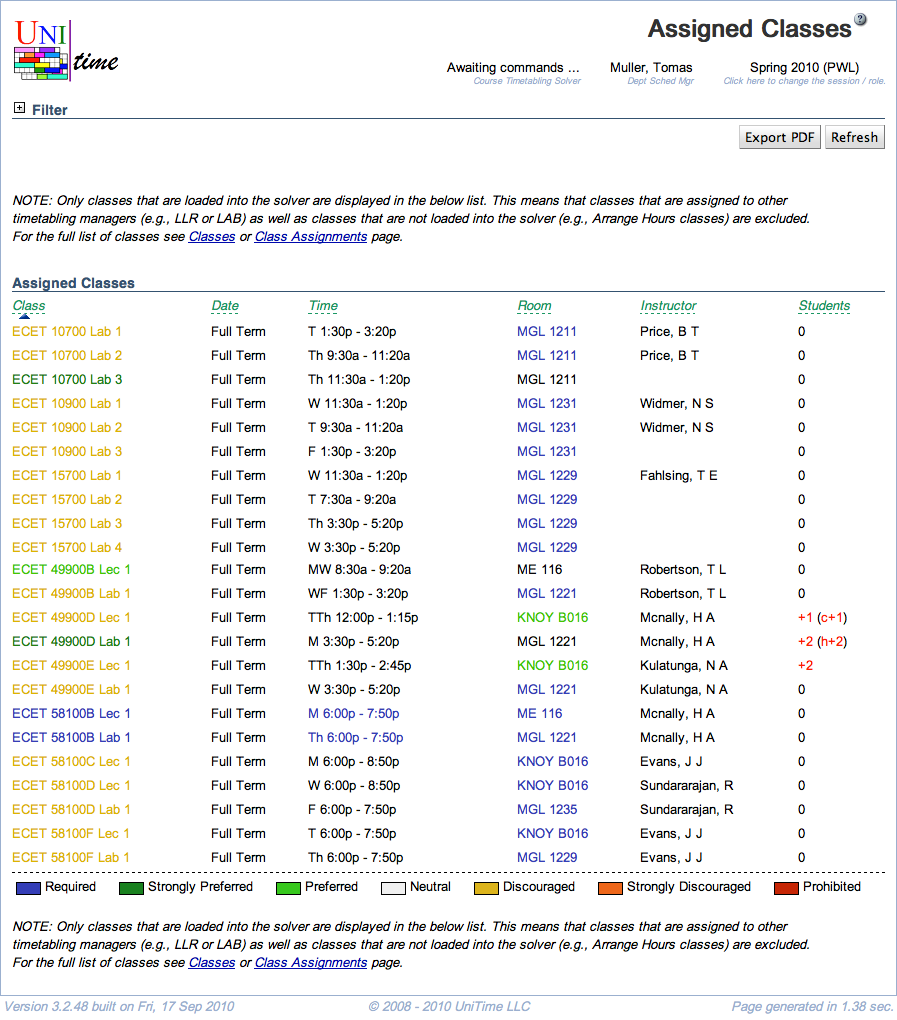
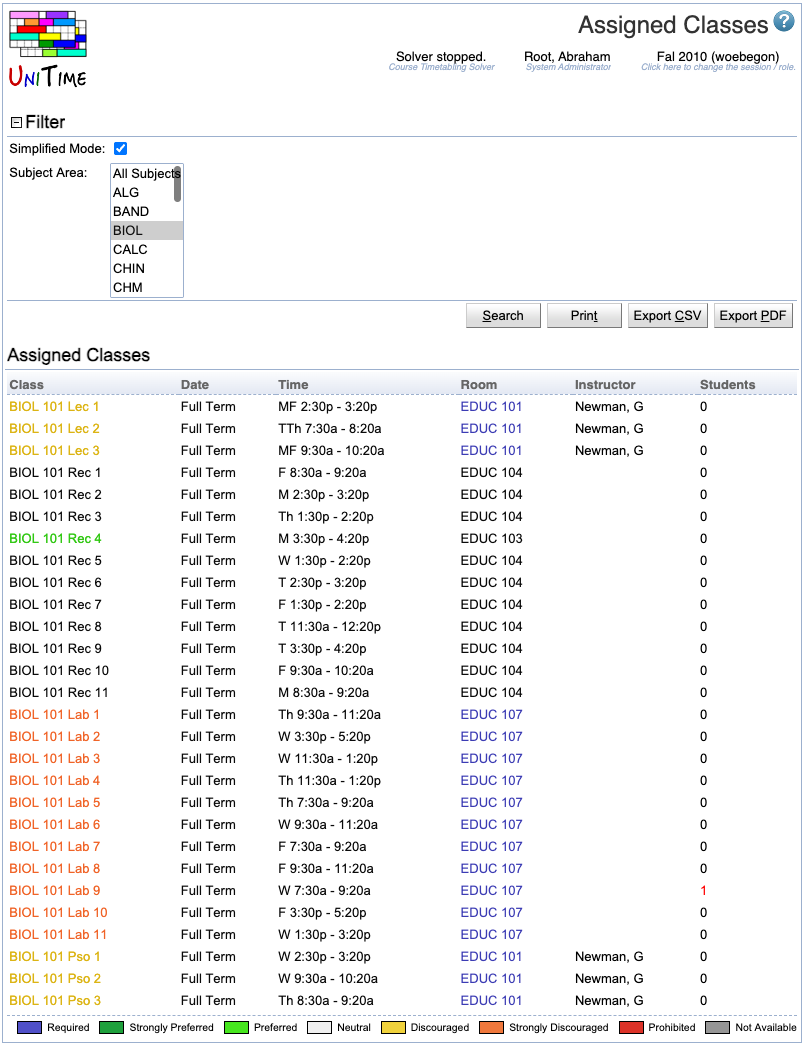
Assigned Classes, Not-assigned Classes
- new screenshots, new fields, text cleanup

Changed region(s): [[0.0, 0.0, 1.0, 1.0]]

diff --git a/assigned-classes.md b/assigned-classes.md
@@ -13,33 +13,28 @@ The Assigned Classes screen provides a view of time/room assignments for classes
 ## Filter
 
 * **Simplified mode**
-	* Choose how many parameters you want to display for each of the classes
-		* If checked, only the number of student conflicts is displayed in the right part of the table 
-		* If unchecked, many more columns are displayed - see below (Assigned Classes) for a list of displayed parameters 
-	* In most cases, you will want to use the simplified mode
+    * Choose how many parameters you want to display for each of the classes
+        * If checked, only the number of student conflicts is displayed in the right part of the table 
+        * If unchecked, many more columns are displayed
+    * In most cases, you will want to use the simplified mode
 
 * **Subject Area**
-	* Select the subject area for which the assigned classes should be displayed
-	* Note: only the classes of the selected/loaded timetable will be displayed - it is possible that there are classes of a given subject area that are timetabled by a different timetabling manager and therefore are a part of a different timetable
+    * Select the subject area for which the assigned classes should be displayed
+    * Note: only the classes of the selected/loaded timetable will be displayed - it is possible that there are classes of a given subject area that are timetabled by a different timetabling manager and therefore are a part of a different timetable
 
-* Click **Apply** to apply a change in the filter
+* Click **Search** to apply a change in the filter
 
 ## Assigned Classes
 
 The list of assigned classes contains classes of the selected/loaded timetable together with their time and room assignments. The colors of the time and room assignments reflect the preference put on a given class for that given time or room (for example, a blue time means that the time was a required time for a given class, an orange room means that the room was strongly discouraged for a given class). The legend for this color coding is displayed at the bottom of the list.
 
-The color on the class name indicates how easily is the class to move.
+The color of the class name indicates how easily the class can move.
 
 * a class that can be moved to some other room without any conflict is marked as strongly preferred
-
 * a class can be moved to some other room (with a conflict) and to some other time (with no conflict) is marked as preferred
-
 * a class that can be moved to some other room (with a conflict) is marked as neutral
-
-* a class that is fixed in room, but can be moved to some other time (without any conflict) is marked as discouraged
-
-* a class that is fixed in room, but can be moved to some other time (with a conflict) is marked as strongly discouraged
-
+* a class that is fixed in a room, but can be moved to some other time (without any conflict) is marked as discouraged
+* a class that is fixed in a room, but can be moved to some other time (with a conflict) is marked as strongly discouraged
 * a class that is fixed in time and room is marked as required
 
 The color coding is very similar but computed slightly differently for a class that is not assigned (based on whether it can be assigned to one or more times and one or more rooms).
@@ -50,13 +45,16 @@ Click on any class to get to the [Suggestions](suggestions) screen for that clas
 
 ## Operations
 
-* **Apply**
-	* Apply the changes made to the filter
+* **Search**
+    * Apply the changes made to the filter, and refresh the list of Assigned Classes
+    * Do this, e.g., after you have changed a time/room assignment for a class in the [Suggestions](suggestions) screen - the Assigned Classes screen may not be refreshed automatically in such a case
+
+* **Print**
+    * Print the list of assigned classes
+
+* **Export CSV**
+    * Export the list of assigned classes to a CSV document
 
 * **Export PDF**
-	* Export the list of assigned classes to a PDF document
-
-* **Refresh**
-	* Refresh the list of assigned classes
-		* Do this e.g. after you have changed a time/room assignment for a class in the [Suggestions](suggestions) screen - the Assigned Classes screen is not refreshed automatically in such case
+    * Export the list of assigned classes to a PDF document
 

diff --git a/not-assigned-classes.md b/not-assigned-classes.md
@@ -13,37 +13,41 @@ The Not-Assigned Classes screen lists classes of the selected/loaded timetable t
 ## Filter
 
 * **Subject Area**
-	* Select the subject area for which the not-assigned classes should be displayed
-	* Note: only the classes of the selected/loaded timetable will be displayed - it is possible that there are classes of a given subject area that are timetabled by a different timetabling manager and therefore are a part of a different timetable
+    * Select the subject area for which the not-assigned classes should be displayed
+    * Note: only the classes of the selected/loaded timetable will be displayed - it is possible that there are classes of a given subject area that are timetabled by a different timetabling manager and therefore are a part of a different timetable
 
-Click **Apply** to apply a change in the filter
+Click **Search** to apply a change in the filter.
 
 ## Not-assigned Classes
 
 For each class in the list, the following columns are displayed:
 
 * **Class**
-	* Subject area, course number, instructional type and class number within that type (for example, ECET 107 Lab 1)
+    * Subject area, course number, instructional type, and class number within that type (for example, ECET 107 Lab 1)
 
 * **Instructor**
-	* Instructor(s) assigned to this class for whom conflict checking is performed
+    * Instructor(s) assigned to this class for whom conflict checking is performed
 
 * **Students**
-	* Number of last-like students that are sectioned into this particular class
+    * Number of last-like students that are sectioned into this particular class
 
 * **Initial Assignment**
-	* Time and room assigned to this class before some change caused the class to lose this assignment
+    * Time and room assigned to this class before some change caused the class to lose this assignment
 
 Click on any line with a class to get to the [Suggestions](suggestions) screen for that class - you will be able to find reasons for unassignment and possible time and room placements there.
 
 ## Operations
 
-* **Apply**
-	* Apply the changes made to the filter
+* **Search**
+    * Apply the changes made to the filter, refresh the list of Not-assigned Classes
+    * Do this, e.g., after you have changed a time/room assignment for a class in the [Suggestions](suggestions) screen - the Not-assigned Classes screen may not be refreshed automatically in such a case
+
+* **Print**
+    * Print the list of not-assigned classes
+
+* **Export CSV**
+    * Export the list of not-assigned classes to a CSV document
 
 * **Export PDF**
-	* Export the list of not assigned classes into a PDF document
+    * Export the list of not-assigned classes to a PDF document
 
-* **Refresh**
-	* Refresh the screen
-		* Necessary if time and room was assigned manually to a class in the [Suggestions](suggestions) screen - the list of not-assigned classes is not refreshed automatically
